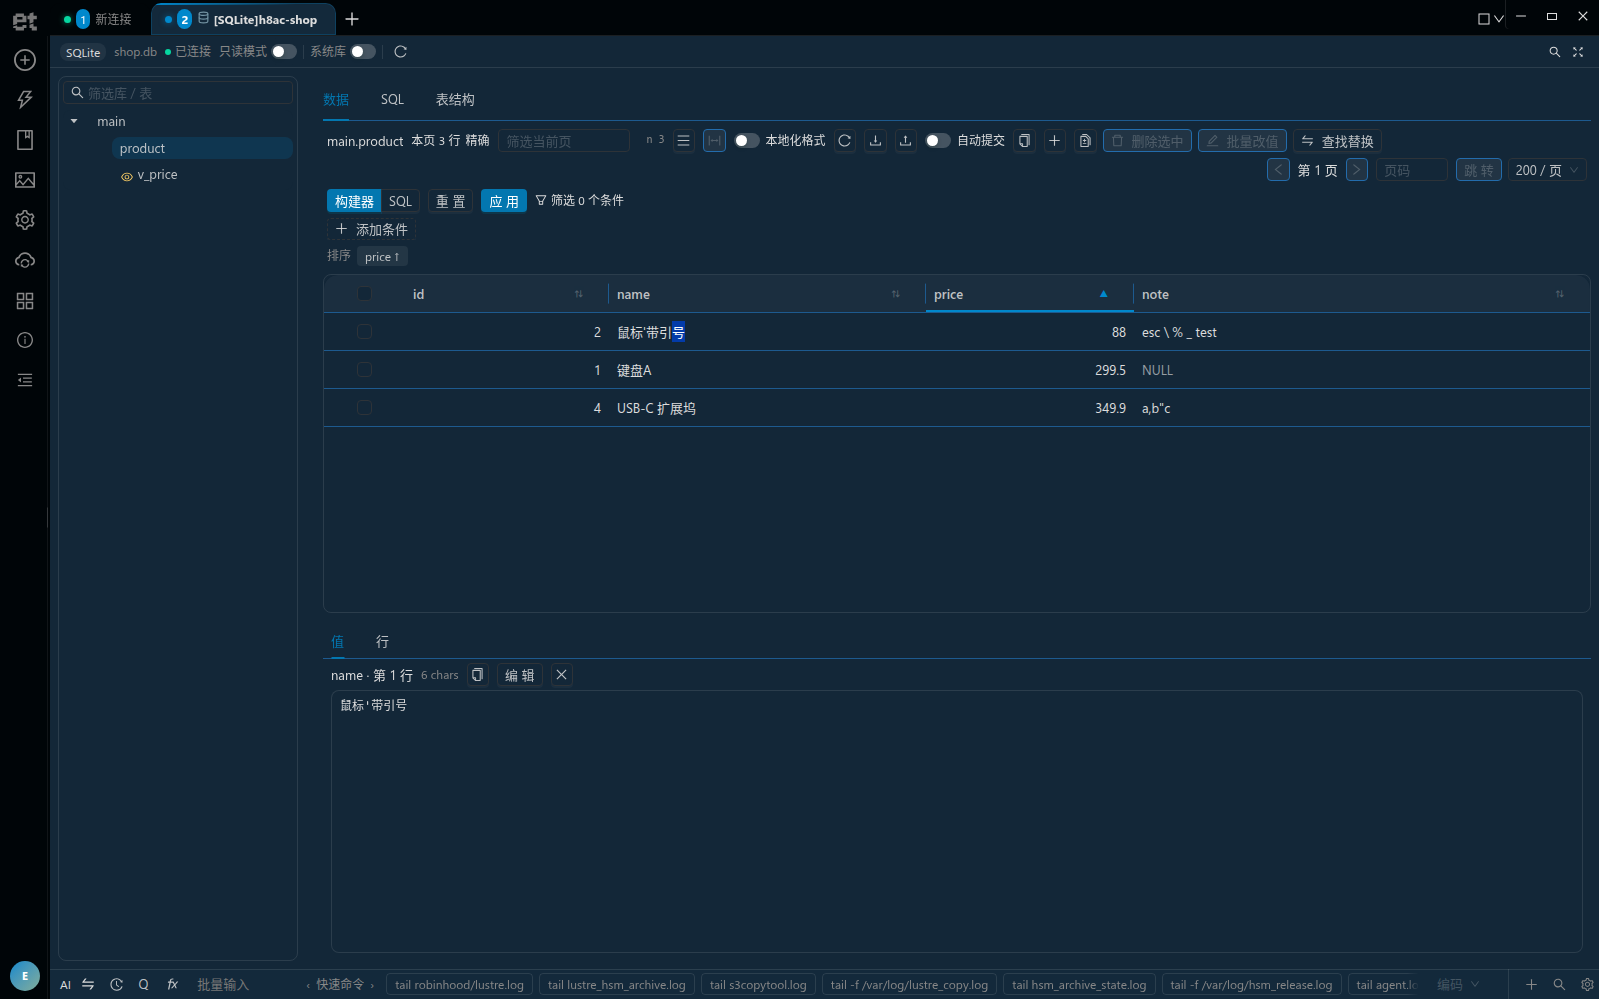
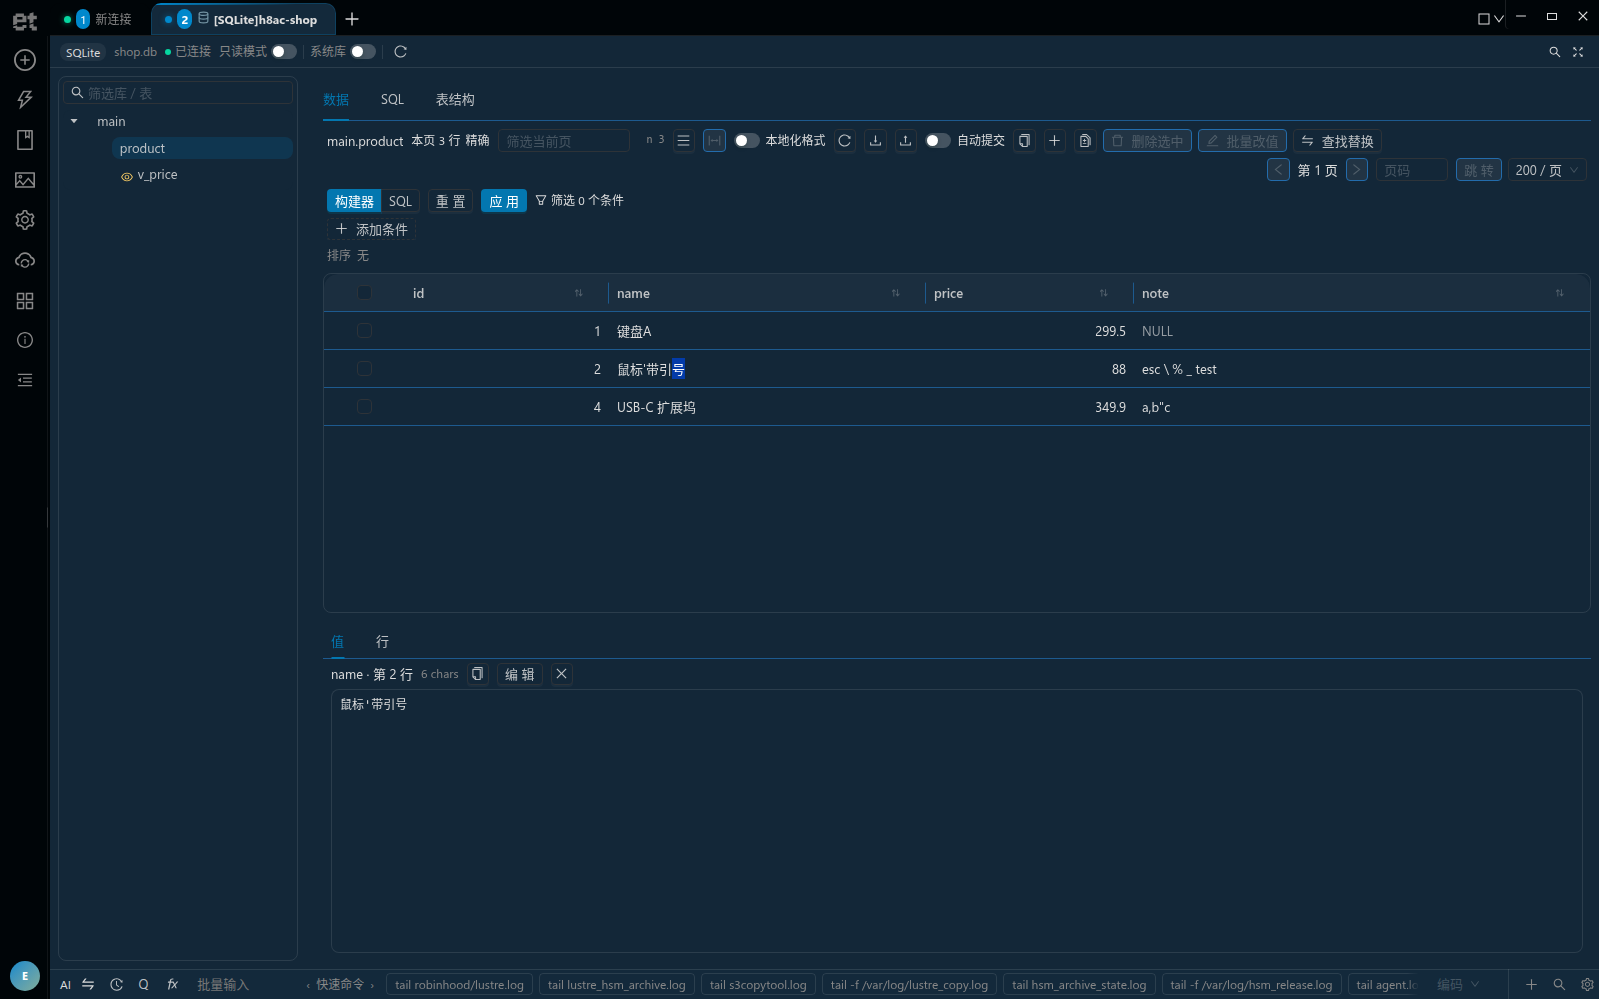
test(db): H8a-d 只读提示实机验收 + 排序段改成三态循环
悬停只读开关取 Tooltip，钉住 SQLite 口径（含 VALUES/PRAGMA、不承诺 SHOW/DESC）并留截图。
排序段不再赌进入时的状态：排序按表持久化，上一轮停在哪这一轮就从哪开始，
"点一次=升序"因此会假失败——改成先归零、再逐段验 无→升→降→取消，
首行按本列 min/max 判而不写死数字。夹具重建挪到关完页签之后：
主进程按连接键复用句柄，页签还开着就 rmDb 等于让新会话读到已 unlink 的旧文件。
另补 FAILED→ 失败全集、找不到编辑器时打印现场、编辑器可点前等遮罩落定。

diff --git a/self-test/db-sqlite-sql-demo.js b/self-test/db-sqlite-sql-demo.js
@@ -12,13 +12,15 @@
  *   这条只能靠"直接发 IPC 仍被拒 + 文件里没多出表"来证明；
  * - SQL 结果撞行数上限时界面必须说出来（否则用户把残缺结果当全量去过滤/排序/导出）。
  *
- * 覆盖（57 条）：
+ * 覆盖（63 条，跑完末尾打印实际数）：
  *   A 数据页/结构页（shop.db，可写）：连上并认出库文件、树里有表与视图、表头按
  *     PRAGMA 顺序、本页行数口径、NULL 占位、含引号/反斜杠/逗号引号的值逐字可见、
- *     本页过滤命中与还原、点表头一次即升序（chip price ↑ 且首格 88 不是 1899）、双击改格进编辑态、
+ *     本页过滤命中与还原、表头排序三态循环（无 → 升 → 降 → 取消，chip 与首行同时验，
+ *     首行按"本列 min/max"判而不写死数字）、双击改格进编辑态、
  *     UPDATE 落盘、删除选中落盘、结构页类型与主键、查看 DDL 是 sqlite_master 原文、
  *     SQL 编辑器可写、只读开关三处生效（编辑器不可编、单元格不再进编辑态、
- *     主进程拒绝 IPC 写且文件里没多出表）
+ *     主进程拒绝 IPC 写且文件里没多出表）、只读提示条按 SQLite 口径给
+ *     （白名单里有 VALUES/PRAGMA，不再承诺 MySQL 才有的 SHOW/DESC）
  *   B SQL 页（sql.db）：方言标 SQLite、SELECT 出行、多语句多结果集、反斜杠非转义、
  *     双引号是标识符（正例 + no such column 反例）、# 非注释、错误条带复制入口、
  *     -- 后不需空格、LIKE 无默认转义符（0/1）、PRAGMA 直读、1.2 万行撞上限并说明
@@ -183,6 +185,13 @@ const HELPERS = `(() => {
   // 只断言"首格值"分不清"点了一次排成降序"和"点了两次"，chip 才是意图的直接证据
   window.__sortChips = () => [...document.querySelectorAll('.db-view-chip')].filter(window.__vis)
     .map(x => ({ t: x.innerText.replace(/\\s+/g, ' ').trim(), desc: x.className.indexOf('is-desc') >= 0 }))
+  // 整列的可见值（按当前行序）：升/降的判据取"这一列的最小/最大值"，
+  // 不写死数字——夹具行会被前面的删除/改值用例改动，写死就等于把判据绑在历史跑序上
+  window.__colTexts = label => {
+    const idx = window.__colIdx(label)
+    if (idx < 0) return []
+    return window.__visRows().map(tr => (tr.children[idx] ? tr.children[idx].innerText.trim() : null))
+  }
   window.__rowIdxOf = t => window.__visRows()
     .findIndex(tr => [...tr.children].some(td => td.innerText.indexOf(t) >= 0))
   window.__rowCheckXY = i => {
@@ -307,6 +316,27 @@ const HELPERS = `(() => {
     const sw = wrap && wrap.querySelector('.ant-switch')
     return sw ? { xy: window.__xy(sw), on: /ant-switch-checked/.test(String(sw.className)) } : null
   }
+  // 只读开关的 Tooltip 文案：悬停才出现，且只在真正"可见"的那条上认
+  // （同一页签可能有别的浮层残留，hidden 的不算）
+  // 找不到控件时要说清"当时屏幕上是什么"：否则"编辑器没了"这种失败只能靠猜
+  window.__tabState = () => ({
+    docTabs: [...document.querySelectorAll('.tab-list .tab')].filter(window.__vis)
+      .map(t => (window.__isActiveTab(t) ? '*' : '') + t.innerText.replace(/\\s+/g, ' ').trim().slice(0, 26)),
+    segs: [...document.querySelectorAll('.db-tabs .ant-tabs-tab')].filter(window.__vis)
+      .map(t => (/ant-tabs-tab-active/.test(String(t.className)) ? '*' : '') + t.innerText.replace(/\\s/g, '')),
+    editors: document.querySelectorAll('.cm-content').length,
+    editorsVisible: [...document.querySelectorAll('.cm-content')].filter(window.__vis).length,
+    modal: [...document.querySelectorAll('.ant-modal')].filter(window.__vis).length
+  })
+  window.__isActiveTab = t => /active|selected/.test(String(t.className))
+  window.__tipText = () => {
+    const t = [...document.querySelectorAll('.ant-tooltip')].filter(window.__vis)[0]
+    if (!t) return null
+    return {
+      text: String(t.innerText || '').replace(/\\s+/g, ' ').trim(),
+      hidden: /ant-tooltip-hidden/.test(String(t.className))
+    }
+  }
 
   // ---- 浮层 ----
   // 危险确认是自绘 footer 的 .db-risk-modal（不是 Modal.confirm）：
@@ -387,8 +417,6 @@ const HELPERS = `(() => {
 
 async function main () {
   fs.mkdirSync(DEMO_DIR, { recursive: true })
-  writeShop()
-  writeSqlDb()
 
   const page = findPageTarget(await getJson(`http://127.0.0.1:${PORT}/json/list`))
   if (!page) {
@@ -426,6 +454,16 @@ async function main () {
     await cdp.click(p.x, p.y, 2)
     await sleep(ms)
     await park()
+  }
+  // 悬停取 Tooltip 文案：antd 提示条有出现延迟，要在它还开着时截图就先 shot 再 park
+  const hoverTip = async (p, shotFile = null, ms = 900) => {
+    if (!p) return null
+    await cdp.move(p.x, p.y)
+    await sleep(ms)
+    const t = await cdp.eval('window.__tipText()')
+    if (shotFile) await cdp.shot(shotFile)
+    await park()
+    return (t && !t.hidden) ? t.text : null
   }
 
   // 开一个 SQLite 会话页签：store.addTab → 组件挂载 → 主进程 openDbTab → 真 node:sqlite
@@ -489,9 +527,17 @@ async function main () {
   // 于是要么执行了上一条的残留、要么报一个和这条用例无关的语法错。
   const setSql = async text => {
     const want = String(text).replace(/\s+/g, ' ').trim()
+    // 弹层刚关掉那一拍，遮罩还在淡出：命中测试会把编辑器判成"点不到"（实测过一次
+    // explain 前置查询拿到 no-editor，下一轮同样的顺序又是绿的）。等它落定再判，
+    // 等不到才认失败——否则这条 FAIL 说的是动画，不是产品。
+    await waitFor(cdp, '!!window.__edXY()', '等 SQL 编辑器可点', 6000)
     for (let attempt = 1; attempt <= 3; attempt++) {
       const xy = await cdp.eval('window.__edXY()')
-      if (!xy) return 'no-editor'
+      if (!xy) {
+        console.log('WARN 找不到可见的 SQL 编辑器，现场 = ' +
+          JSON.stringify(await cdp.eval('window.__tabState()')))
+        return 'no-editor'
+      }
       await click(xy, 250)
       if (!(await cdp.eval('window.__edFocused()'))) {
         await click(xy, 250)
@@ -582,6 +628,14 @@ async function main () {
     console.log('WARN 仍有没关掉的数据库页签', JSON.stringify(cleared.left))
   }
 
+  // 夹具在"页签都关掉之后"才重建：主进程按连接键复用 SQLite 句柄，
+  // 只要还有一个页签开着（哪怕来自别的探针脚本），rmDb 就是在删一个仍被打开的 inode——
+  // 新页签会拿到那个"已 unlink 的旧文件"，于是界面读到上一轮的 3 行、宿主直读新文件是 4 行，
+  // 写回也落进旧 inode，看起来就像"UPDATE 没生效"。实测被这个坑过一次。
+  writeShop()
+  writeSqlDb()
+  await sleep(300)
+
   // ================= A 数据页 / 结构页（shop.db，可写） =================
   const shop = await openTab(SHOP_TITLE, SHOP, false)
   check('加数据库页签即连上 SQLite，头部显示库文件名', shop.ok, await cdp.eval('window.__headTarget()'))
@@ -623,23 +677,47 @@ async function main () {
   const back4 = await waitFor(cdp, 'window.__dataRows().length === 4', '清过滤后没回到 4 行', 8000)
   check('清掉过滤回到 4 行', back4)
 
-  // 点表头排序：price 是 REAL，必须按数值排（88 在前，不是字符串序的 1899 在前）
+  // 点表头排序：三态循环（chip 自己的 title 就写着"升序 → 降序 → 取消"）。
+  // 排序状态是按表持久化的，上一轮跑到哪就停在哪，所以"点一次应当是升序"
+  // 其实取决于进入时的历史状态——实测过两种假失败：进入时已是升序（点一下变降序），
+  // 以及点完判据读不到 chip。先把状态归零（顺带验掉"取消"这条腿），
+  // 再从已知起点逐段验，每段都从上一段的结果出发。
+  const priceCol = (await cdp.eval('window.__colTexts(\'price\')')).map(Number).filter(n => !Number.isNaN(n))
+  const lo = Math.min(...priceCol)
+  const hi = Math.max(...priceCol)
   const headProbe = await cdp.eval('window.__headProbe(\'price\')')
-  console.log('INFO price 表头点击点 = ' + JSON.stringify(headProbe))
-  let ascOk = false
-  if (headProbe && headProbe.clickable) {
-    await click(headProbe.xy, 800)
-    ascOk = await waitFirstCell('price', '88', 12000)
+  console.log('INFO price 表头点击点 = ' + JSON.stringify(headProbe) +
+    '，进入时 chip = ' + JSON.stringify(await cdp.eval('window.__sortChips()')) +
+    '，本列 min/max = ' + lo + '/' + hi)
+  let chips = await cdp.eval('window.__sortChips()') || []
+  if (!headProbe || !headProbe.clickable) {
+    console.log('WARN price 表头点不到，跳过排序段：' + JSON.stringify(headProbe))
   } else {
-    console.log('WARN price 表头点不到，跳过点击：' + JSON.stringify(headProbe))
+    for (let n = 0; n < 4 && chips.length; n++) {
+      await click(headProbe.xy, 700)
+      await waitFor(cdp, 'window.__sortChips().length === 0', '等排序归零', 6000)
+      chips = await cdp.eval('window.__sortChips()') || []
+    }
+    check('排序能归零（chip 消失 = "取消排序"这一条腿走通）', chips.length === 0, chips)
+    await click(headProbe.xy, 700)
+    await waitFor(cdp, 'window.__sortChips().length > 0', '等升序 chip', 6000)
+    chips = await cdp.eval('window.__sortChips()') || []
+    const ascFirst = await cdp.eval('window.__cellText(\'price\', 0)')
+    check('无排序 → 点一次 = 升序（chip price ↑ 且首行是本列最小值）',
+      chips.length === 1 && chips[0].desc === false && /price/.test(chips[0].t) &&
+        Number(ascFirst) === lo, { chips, ascFirst, lo, headProbe })
+    await click(headProbe.xy, 700)
+    await waitFor(cdp, 'window.__sortChips().some(c => c.desc)', '等降序 chip', 6000)
+    chips = await cdp.eval('window.__sortChips()') || []
+    const descFirst = await cdp.eval('window.__cellText(\'price\', 0)')
+    check('升序 → 点一次 = 降序（chip price ↓ 且首行换成本列最大值）',
+      chips.length === 1 && chips[0].desc === true && Number(descFirst) === hi,
+      { chips, descFirst, hi })
+    await click(headProbe.xy, 700)
+    await waitFor(cdp, 'window.__sortChips().length === 0', '等取消排序 chip', 6000)
+    chips = await cdp.eval('window.__sortChips()') || []
+    check('降序 → 点一次 = 取消（chip 消失，不再假装还在排序）', chips.length === 0, chips)
   }
-  const firstPrice = await cdp.eval('window.__cellText(\'price\', 0)')
-  const chips = await cdp.eval('window.__sortChips()')
-  check('点 price 表头一次 = 升序（chip 是 price ↑，没有 is-desc）',
-    Array.isArray(chips) && chips.length === 1 && chips[0].desc === false && /price/.test(chips[0].t),
-    { chips, headProbe })
-  check('点 price 表头按数值升序（首格 88，不是字符串序的 1,899）', ascOk === true,
-    { firstPrice, chips, headProbe })
 
   // 双击改格 → UPDATE → 界面与文件同时变
   const idxKb = await cdp.eval('window.__rowIdxOf(\'键盘\')')
@@ -699,7 +777,16 @@ async function main () {
   check('可写时 SQL 编辑器可输入（contenteditable=true）', roBefore === 'true', roBefore)
   const sw = await cdp.eval('window.__switchXY(\'只读\')')
   check('头部工具条有只读开关，且当前是可写', !!sw && sw.on === false, sw)
+  // 只读提示按引擎给：SQLite 的白名单没有 SHOW/DESC（根本不是 MySQL），
+  // 但有 VALUES/PRAGMA/WITH。以前所有引擎共用 MySQL 那句，于是
+  // 「提示说可以、主进程照样拒」——照提示写 PRAGMA 的人会被自己的连接打回来。
   if (sw) {
+    const tip = await hoverTip(sw.xy, path.join(SHOT_DIR, '1-readonly-tip.png'))
+    check('SQLite 会话悬停只读开关出提示条', !!tip && /^只读模式/.test(String(tip)), tip)
+    check('提示里是 SQLite 的口径（VALUES/PRAGMA 在白名单内）',
+      !!tip && /VALUES/.test(tip) && /PRAGMA/.test(tip), tip)
+    check('提示不再承诺 MySQL 才有的 SHOW/DESC（套错口径就是误导）',
+      !!tip && !/SELECT \/ SHOW/.test(tip), tip)
     await click(sw.xy, 1200)
     const roAfter = await cdp.eval('window.__editorRO()')
     const swAfter = await cdp.eval('(window.__switchXY(\'只读\') || {}).on')
@@ -719,7 +806,7 @@ async function main () {
     const sw2 = await cdp.eval('window.__switchXY(\'只读\')')
     await click(sw2.xy, 1000)
   }
-  await cdp.shot(path.join(SHOT_DIR, '1-data-page.png'))
+  await cdp.shot(path.join(SHOT_DIR, '2-data-page.png'))
 
   // ================= B SQL 页方言与执行（sql.db） =================
   const sq = await openTab(SQL_TITLE, SQLDB, false)
@@ -790,7 +877,7 @@ async function main () {
     /上限|limit/i.test(String(noteR)) && /10000/.test(String(noteR)), noteR)
   check('上限那句里没留下未替换的占位符（中文词条 {n} 出现两次）',
     !/\{n\}/.test(String(noteR)), noteR)
-  await cdp.shot(path.join(SHOT_DIR, '2-row-limit.png'))
+  await cdp.shot(path.join(SHOT_DIR, '3-row-limit.png'))
 
   // 危险确认：DROP 每次都要问；点取消 = 零执行
   await execSql('DROP TABLE dropme', 'DROP 确认')
@@ -887,7 +974,7 @@ async function main () {
     const dgLight = await cdp.eval('window.__dataGrid()')
     check('浅色主题下数据网格仍在（切主题不丢会话、表头没塌）',
       !!dgLight && dgLight.heads.length > 0, dgLight)
-    await cdp.shot(path.join(SHOT_DIR, '3-theme-light.png'))
+    await cdp.shot(path.join(SHOT_DIR, '4-theme-light.png'))
     await cdp.eval(`window.store.setTheme(${J(curTheme)})`)
     await sleep(900)
   } else {
@@ -901,6 +988,11 @@ async function main () {
   console.log('\nEVENTS', JSON.stringify(cdp.tail(8)))
   const bad = results.filter(r => !r.ok)
   const skipped = results.filter(r => r.skipped)
+  // 逐条再打一遍失败项：长日志里 FAIL 行会被别的输出冲散（实测同一份日志被
+  // 实例 stderr 覆盖掉十几行），只有末尾这份清单是可信的失败全集
+  for (const b of bad) {
+    console.log('FAILED → ' + b.name + (b.detail === undefined ? '' : ' :: ' + JSON.stringify(b.detail)))
+  }
   console.log(`\n${results.length - bad.length - skipped.length}/${results.length} 条通过（跳过 ${skipped.length} 条）`)
   cdp.ws.close()
   process.exit(bad.length ? 1 : 0)
